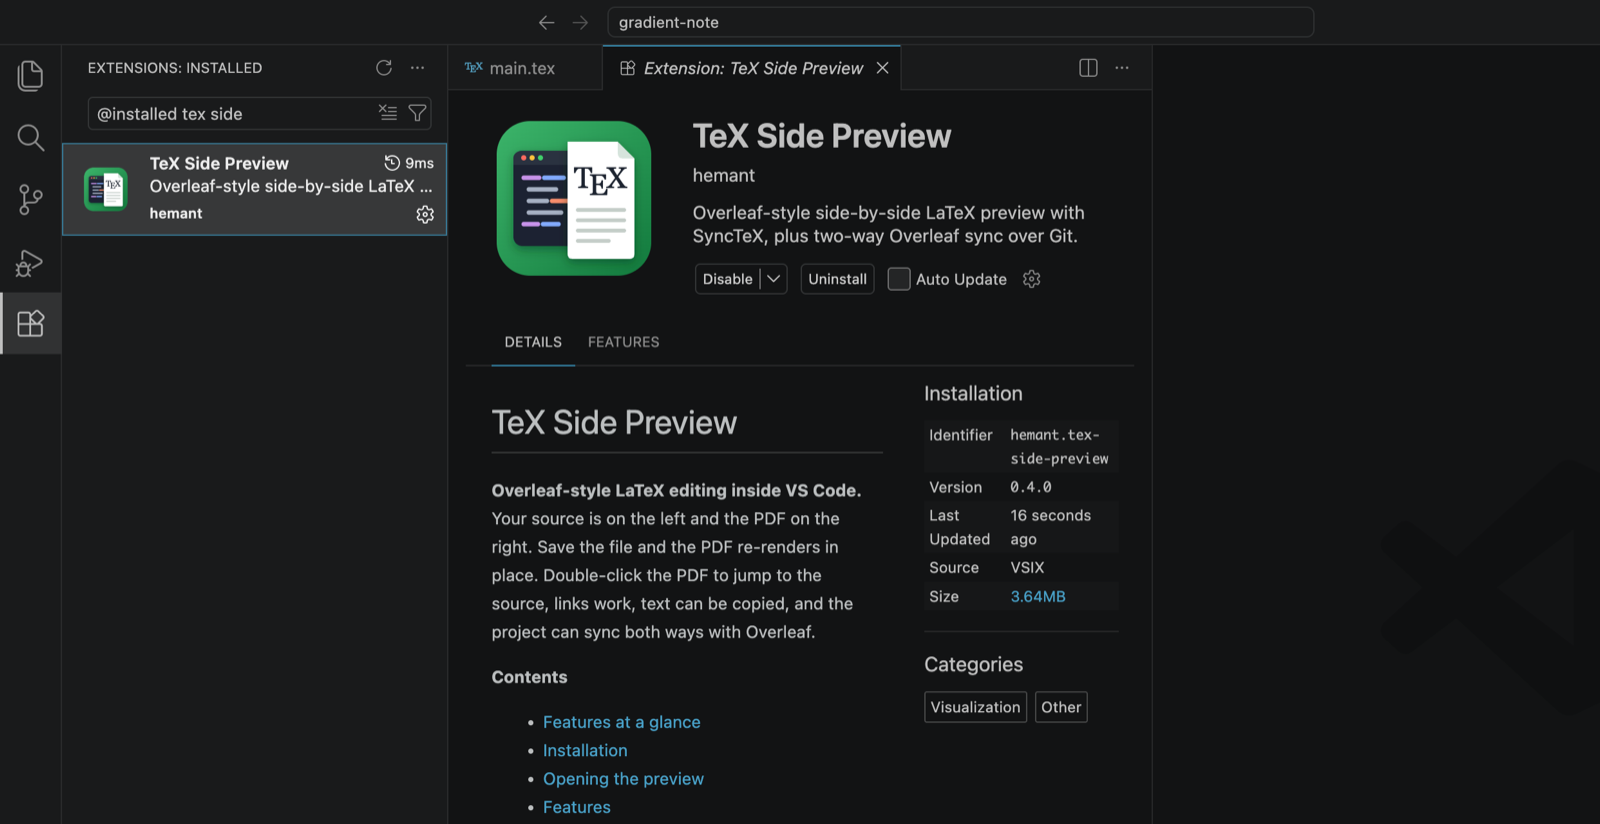
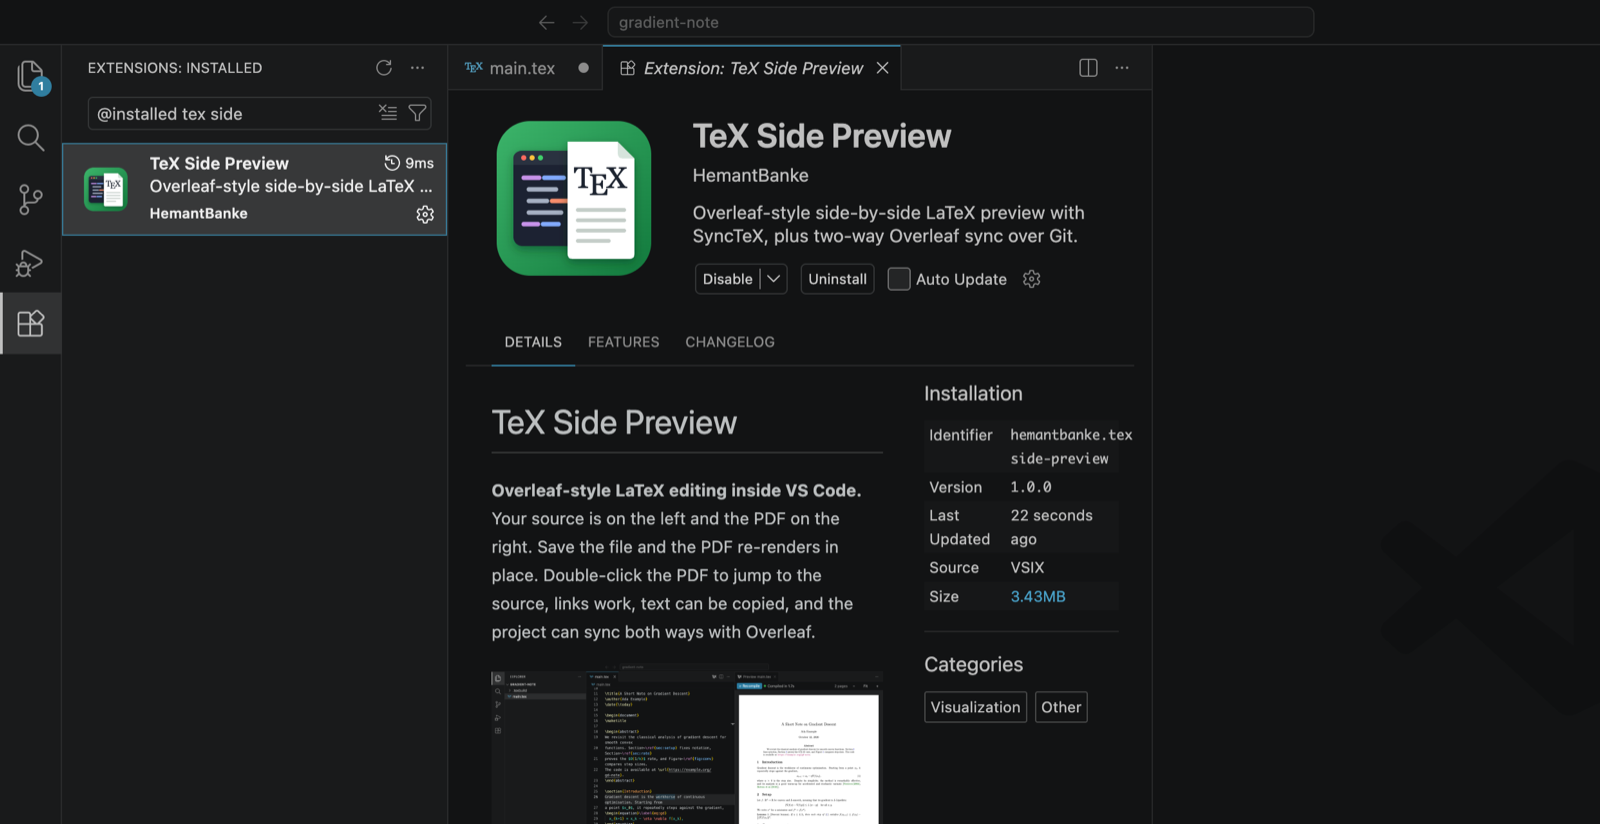
Publisher HemantBanke

diff --git a/README.md b/README.md
@@ -62,9 +62,9 @@ In VS Code, open the **Extensions** view (⇧⌘X / Ctrl+Shift+X), search for **
 
 Other ways to install:
 
-- **Quick Open:** press ⌘P (Ctrl+P), paste `ext install hemant.tex-side-preview` and press Enter.
-- **Command line:** run `code --install-extension hemant.tex-side-preview`.
-- **Cursor, VSCodium, Windsurf:** search for **TeX Side Preview** in their Extensions view; it's published on [Open VSX](https://open-vsx.org/extension/hemant/tex-side-preview).
+- **Quick Open:** press ⌘P (Ctrl+P), paste `ext install HemantBanke.tex-side-preview` and press Enter.
+- **Command line:** run `code --install-extension HemantBanke.tex-side-preview`.
+- **Cursor, VSCodium, Windsurf:** search for **TeX Side Preview** in their Extensions view; it's published on [Open VSX](https://open-vsx.org/extension/HemantBanke/tex-side-preview).
 - **From a `.vsix` file:** in the Extensions view, open the **`···`** menu → **Install from VSIX…** and pick the file.
 
   <img src="docs/images/install-vsix.png" alt="The Extensions view's ··· menu with Install from VSIX…" width="520">
